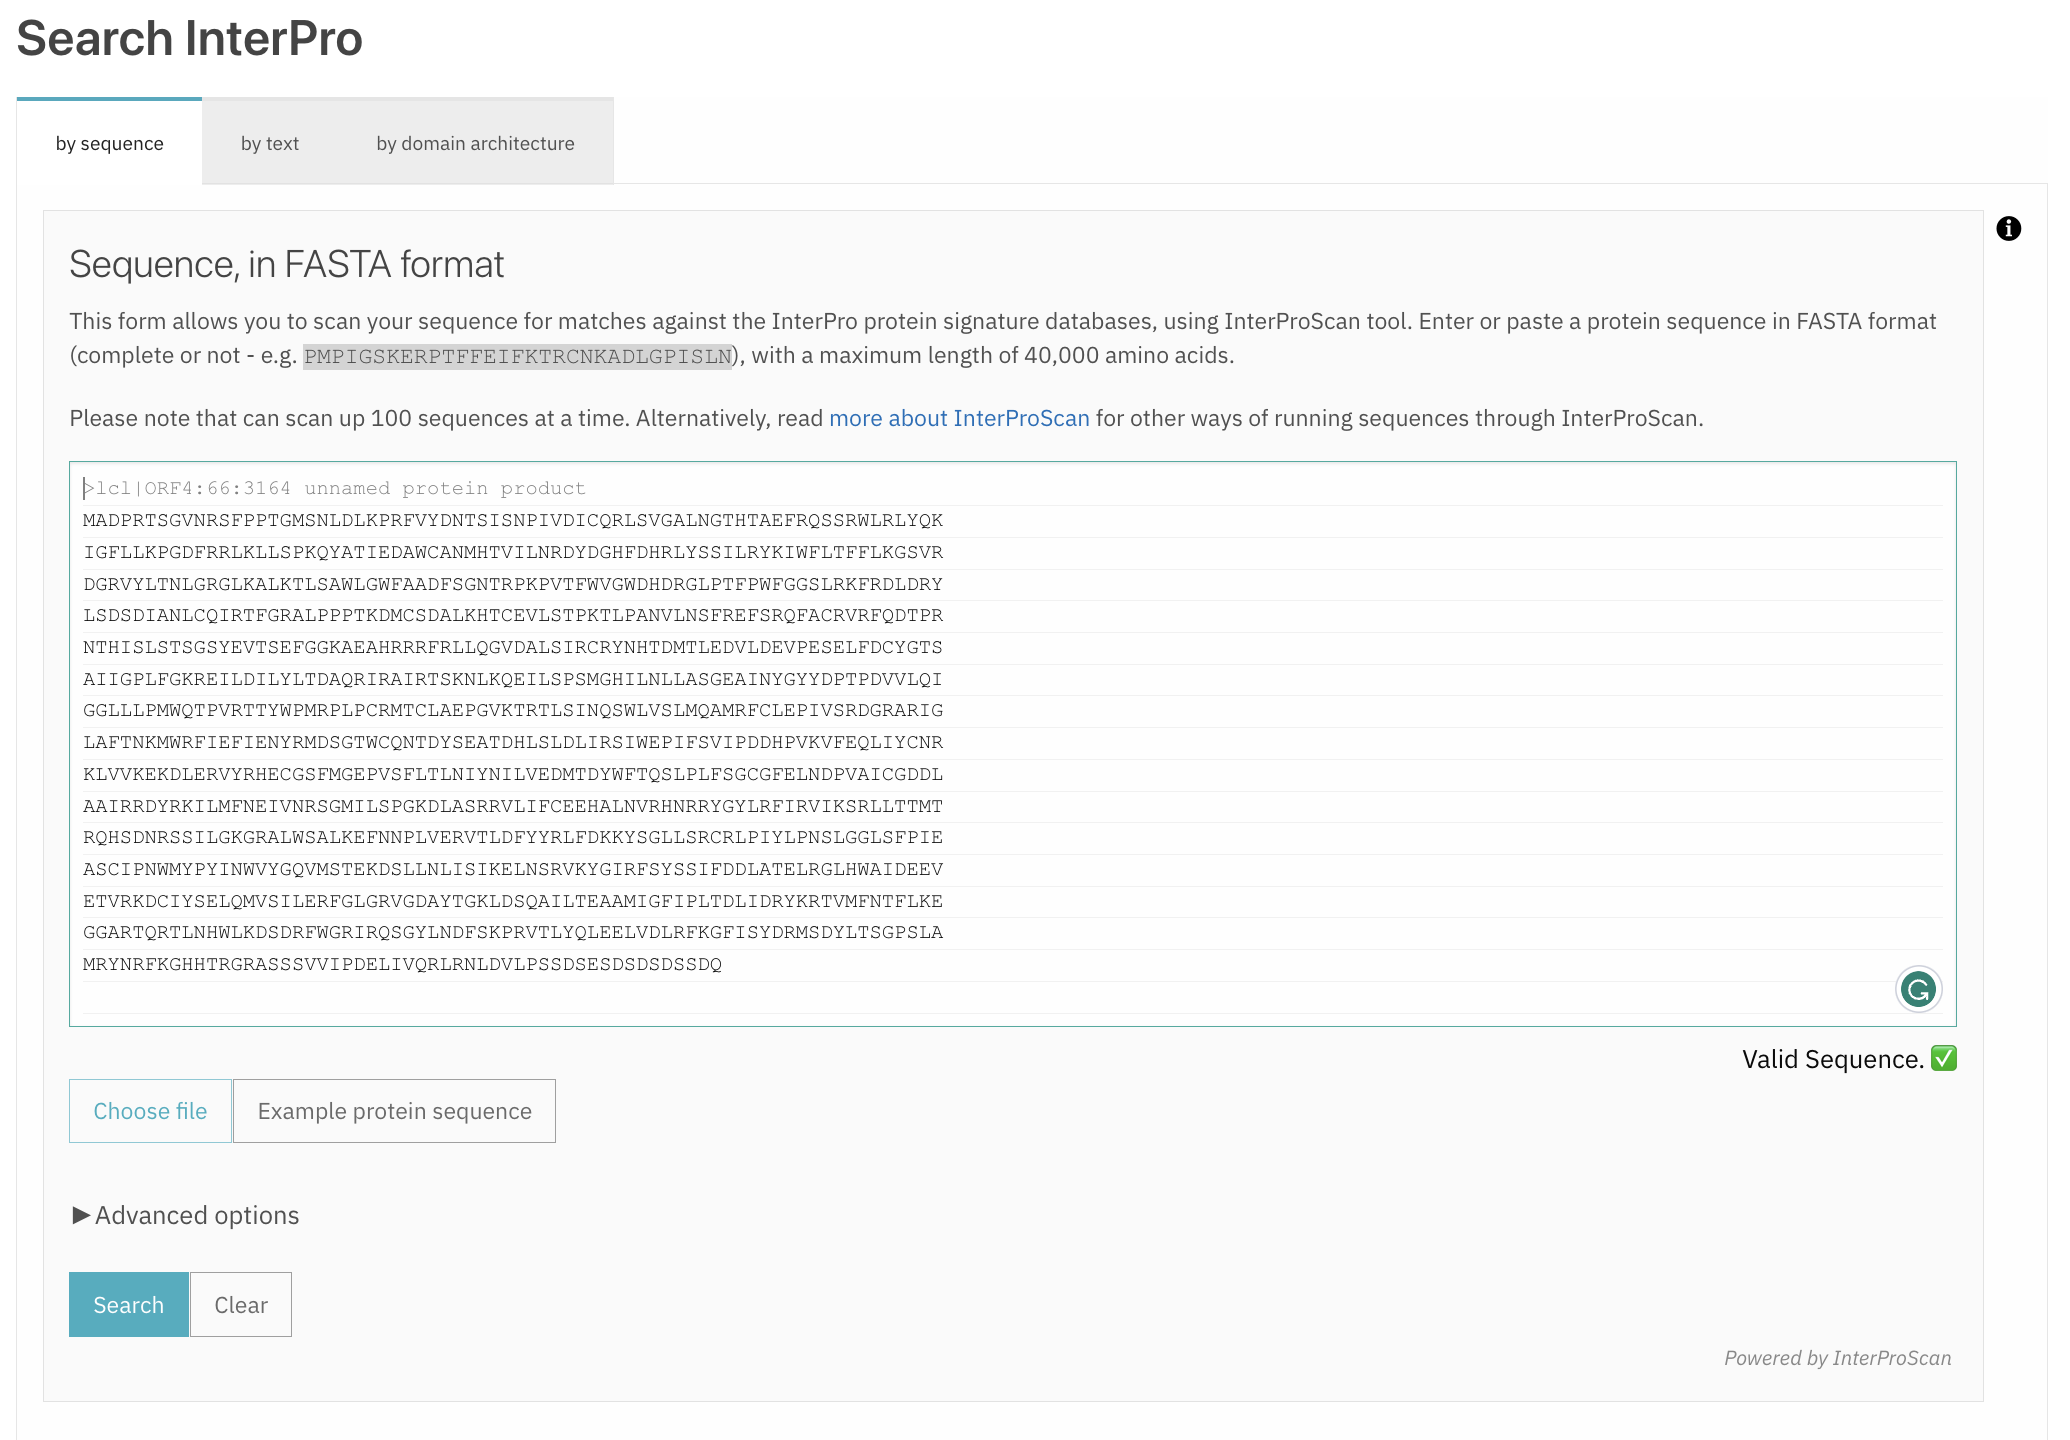
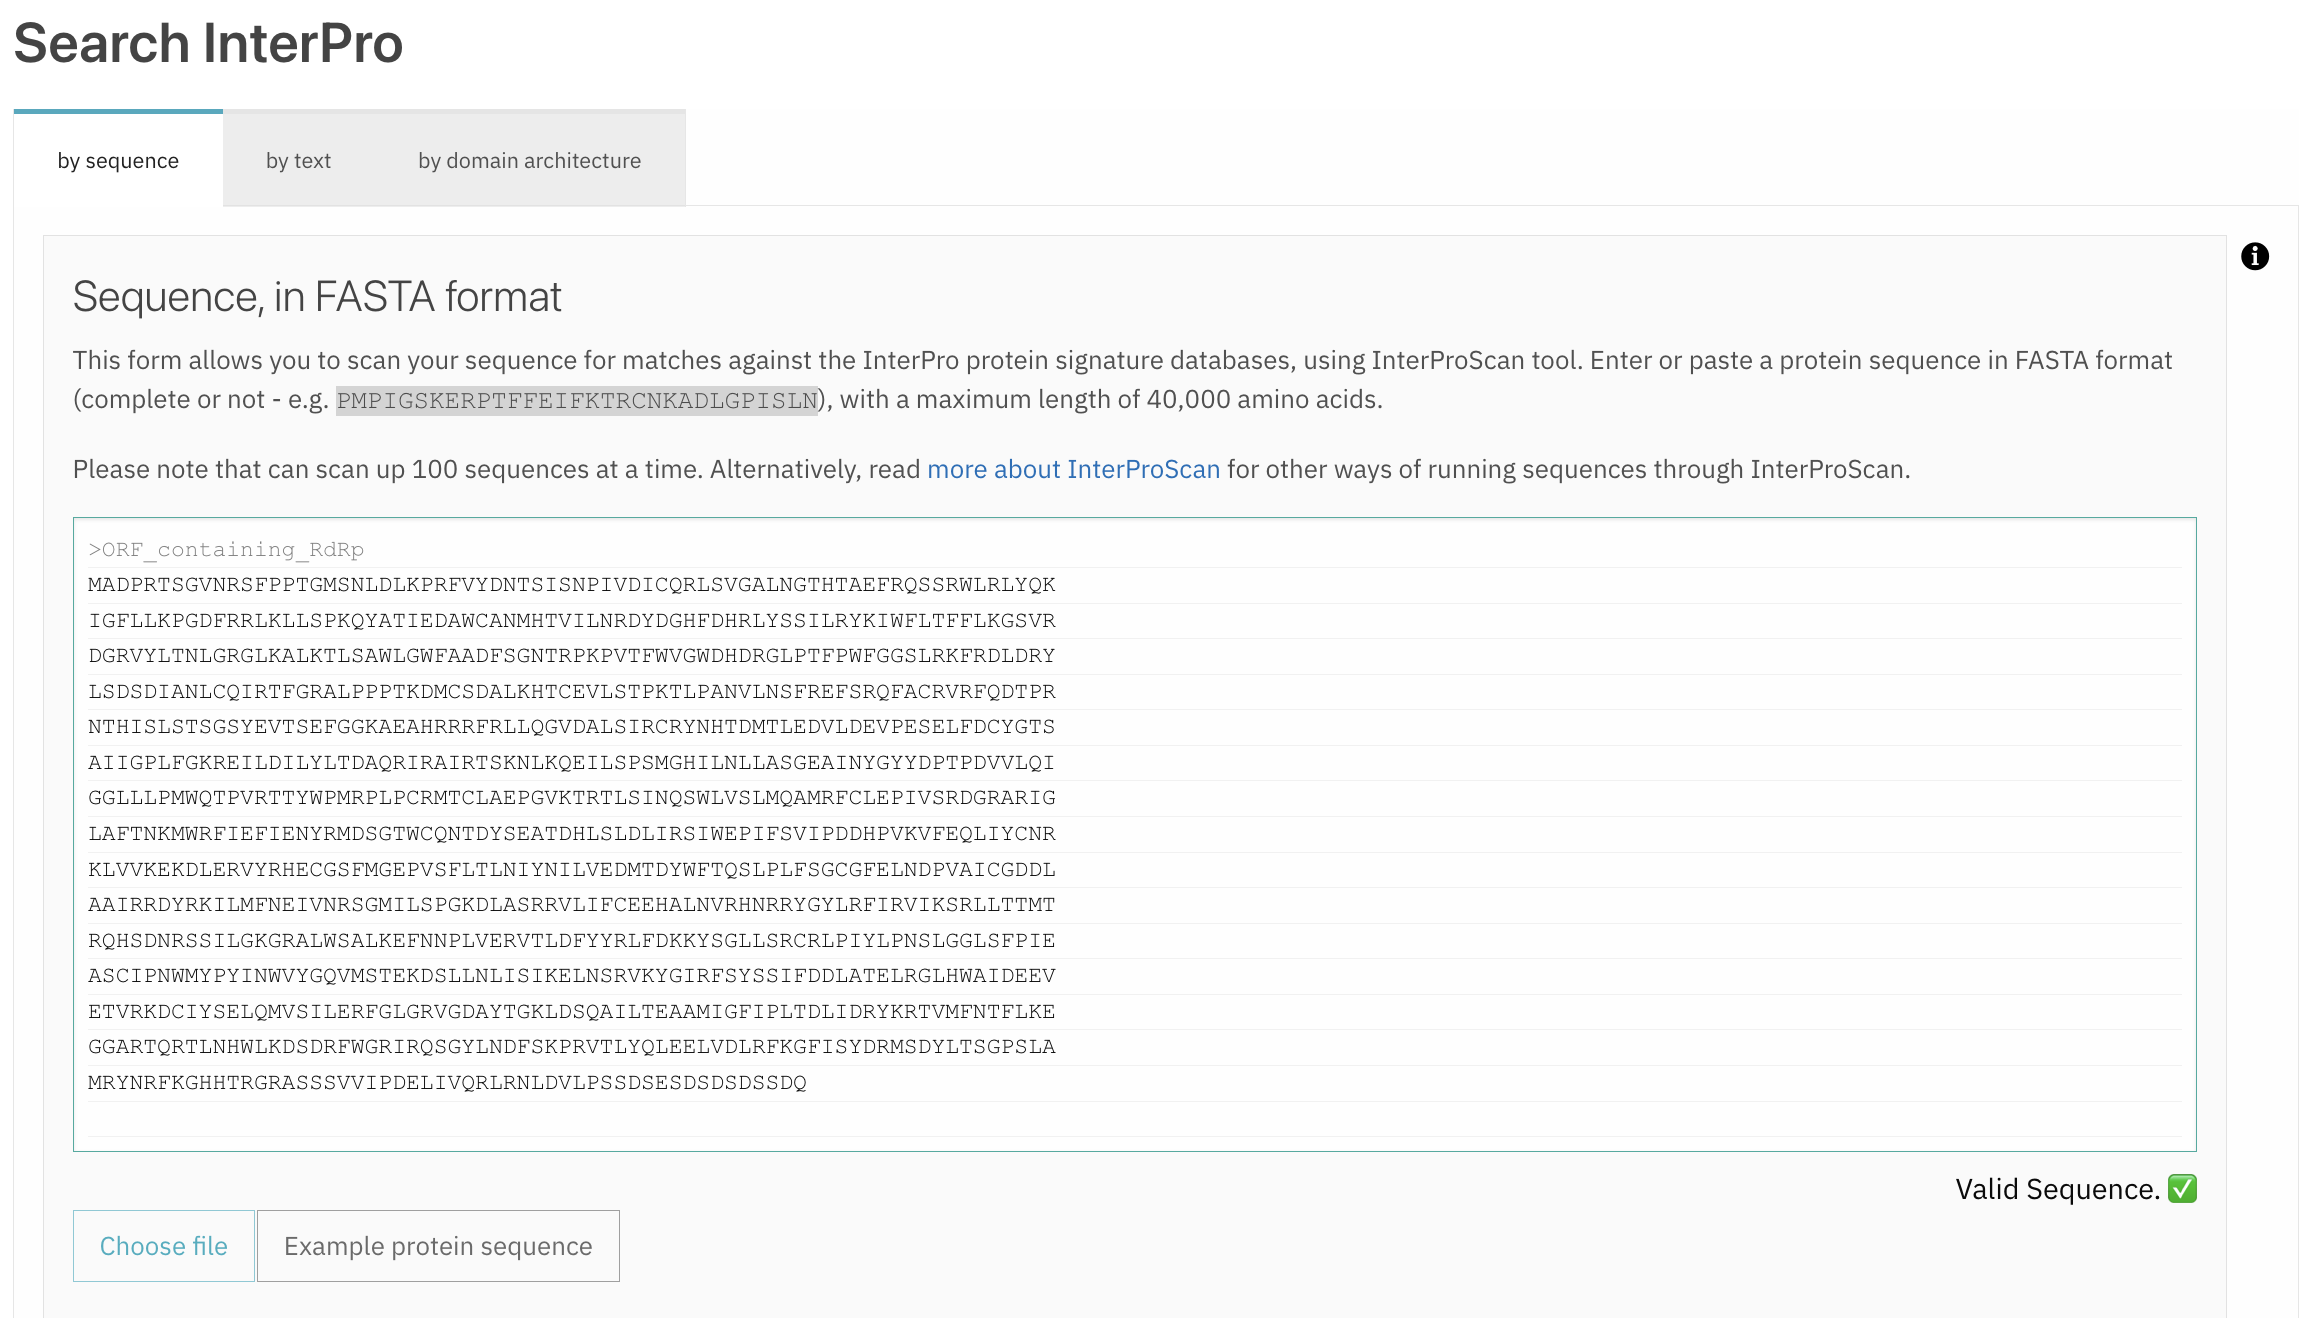
made changes to interproscan sample file name

diff --git a/tools/InterProScan.md b/tools/InterProScan.md
@@ -7,7 +7,7 @@ written by: [Katarina Vucic](https://github.com/katarinaavucic)
 
 ## Input / Prerequisites
 - [Tool Weblink](https://www.ebi.ac.uk/interpro/result/InterProScan/)
-- [Tutorial Data](img/template/ao.fa)
+- [Tutorial Data](img/InterProScan/potential_narnavirus_ORF.fa)
 - In order to use InterProScan to analyse your virus, you need a protein sequence of the region you would like to analyse. For this tutorial, we will be using the protein sequence containing the RdRp (RNA-dependent RNA polymerase). The protein sequence used in this tutorial is provided in the dropbox, but if you would like to try with your own virus the steps are as follows:
   1. Identify the candidate RdRp contigs for your virus. 
   2. Run the contig nucleotide sequence through [ORFfinder](https://www.ncbi.nlm.nih.gov/orffinder/), to find an ORF (Open Reading Frame) that matches this contig.
@@ -59,7 +59,7 @@ After submitting your job, you will be brought to a waiting page with all of you
 Figure 4: Job Results Page.\
 </br>
 
-Click on `lcl|ORF4:66:3164 unnamed protein product`.
+Click on `ORF_containing_RdRp`.
 
 ![Protein Results Page.](img/InterProScan/search_results.png)
 Figure 5: Protein Results Page.\
@@ -123,7 +123,7 @@ Figure 10: Protein Results Page.\
 
 Your results should look like this!
 
-![Resulting TSV File.](img/InterProScan/tsv_output.png)
+![Resulting TSV File.](img/InterProScan/tsv_output.png)\
 Figure 11: Resulting TSV File.\
 </br>
 
